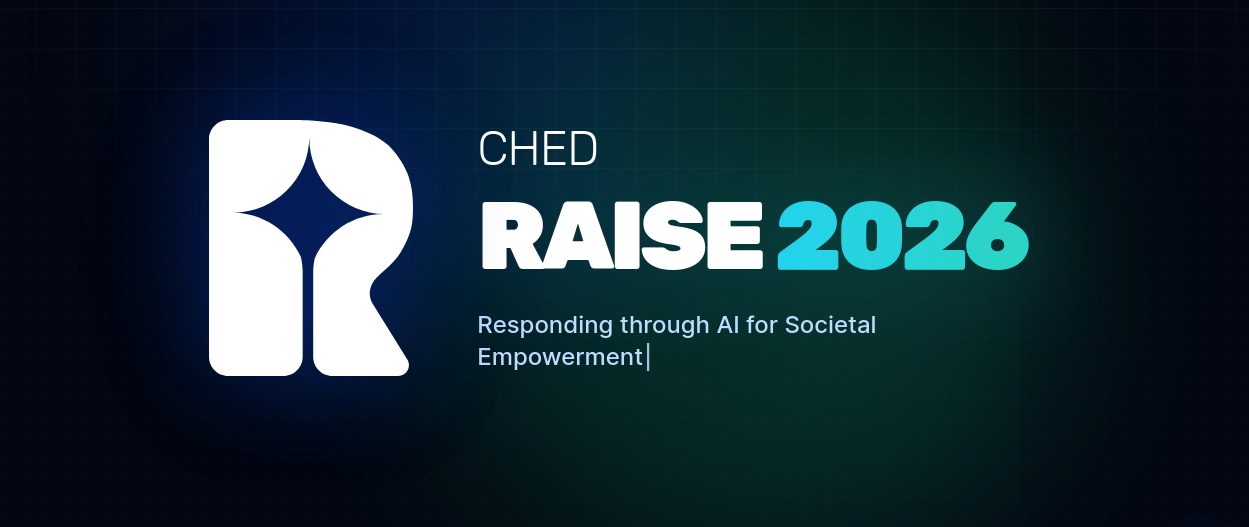
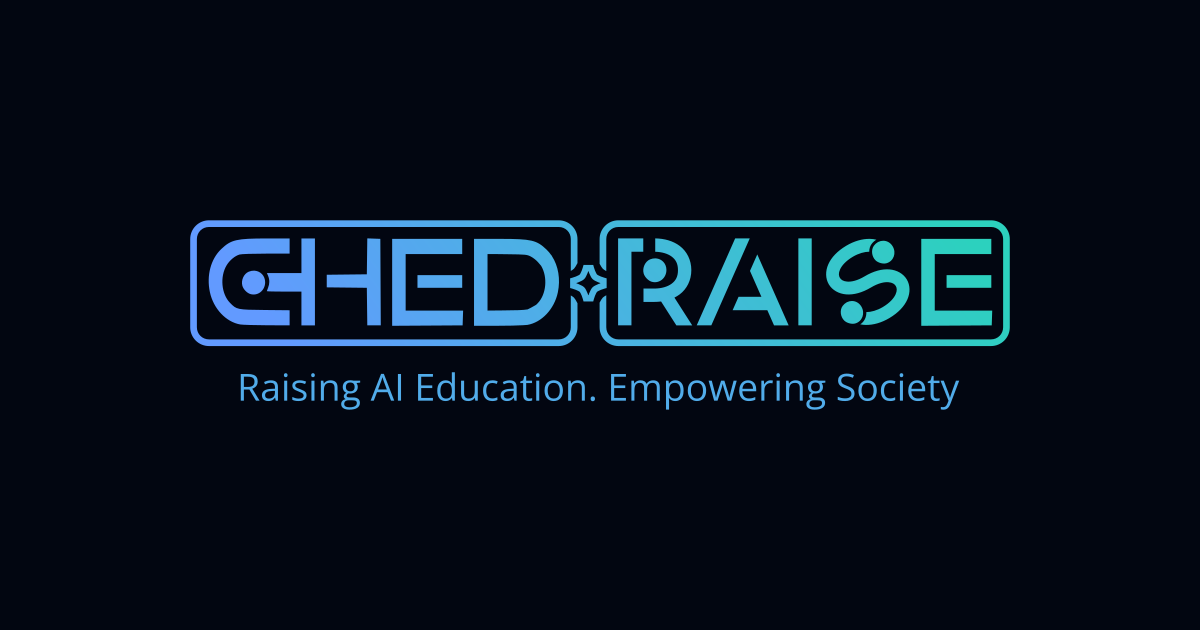
feat: Update og-image, footer slogan to include AI, and media asset thumbnails with a new default SVG.

diff --git a/src/pages/MediaAssetsPage.tsx b/src/pages/MediaAssetsPage.tsx
@@ -12,7 +12,7 @@ const MEDIA_ASSETS = [
         id: 0,
         title: "CHED Memo",
         type: "document",
-        thumbnail: "https://images.unsplash.com/photo-1544396821-4dd40b938ad3?q=80&w=2073&auto=format&fit=crop",
+        thumbnail: "/thumb-default.svg",
         date: "Dec 22, 2025",
         description: "CHED Memo for RAISE Summit 2025."
     },
@@ -20,7 +20,7 @@ const MEDIA_ASSETS = [
         id: 1,
         title: "Event Brochure",
         type: "document",
-        thumbnail: "https://images.unsplash.com/photo-1544396821-4dd40b938ad3?q=80&w=2073&auto=format&fit=crop",
+        thumbnail: "/thumb-default.svg",
         date: "Dec 10, 2025",
         description: "Download the official event brochure with schedule and speaker info."
     },
@@ -28,7 +28,7 @@ const MEDIA_ASSETS = [
         id: 2,
         title: "Press Kit",
         type: "document",
-        thumbnail: "https://images.unsplash.com/photo-1586281380349-632531db7ed4?q=80&w=2070&auto=format&fit=crop",
+        thumbnail: "/thumb-default.svg",
         date: "Nov 28, 2025",
         description: "Assets and information for media partners."
     }

diff --git a/src/components/Footer.tsx b/src/components/Footer.tsx
@@ -11,7 +11,7 @@ export function Footer() {
                     <img src="/logo-light.svg" alt="Logo" className="h-8 w-auto opacity-90" />
                 </div>
                 <p className="text-lg md:text-xl text-slate-300 font-medium mb-8 italic">
-                    "Raising Education. Empowering Society."
+                    "Raising AI Education. Empowering Society."
                 </p>
 
                 <div className="flex flex-wrap justify-center gap-x-8 gap-y-4 text-sm text-slate-500 mb-10 font-medium">
